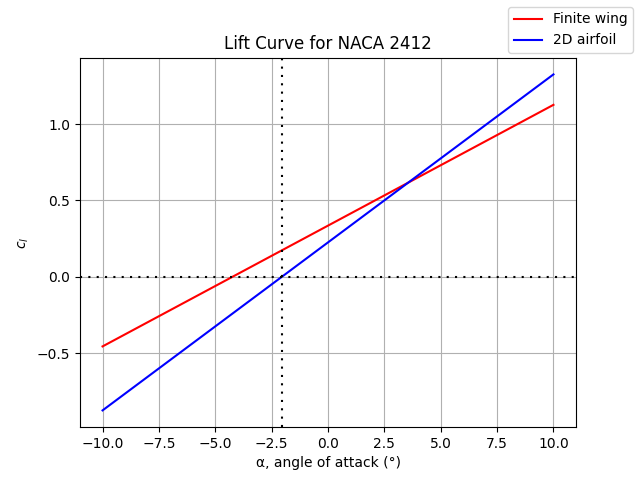
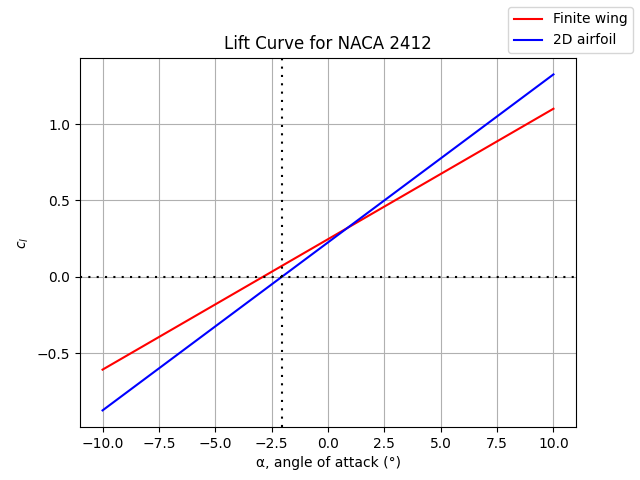
update

Changed region(s): [[0.1562, 0.2812, 0.7812, 0.75], [0.7812, 0.2188, 0.875, 0.2812], [0.1562, 0.75, 0.1875, 0.7812]]

diff --git a/final_project/Airfoil.py b/final_project/Airfoil.py
@@ -11,7 +11,7 @@ AIRFOIL GENERATION CODE, ADAPTED FROM Divahar Jayaraman (j.divahar@yahoo.com)
 
 
 class Airfoil:
-    def __init__(self, designation):
+    def __init__(self, designation, c, fluid):
         # ALL AIRFOIL CHARACTERISTICS ARE IMPLEMENTED HERE
 
         self.code = str(designation)
@@ -21,6 +21,12 @@ class Airfoil:
         self.m = float(self.code[0])/100
         self.p = float(self.code[1])/10
         self.t = float(self.code[2:])/100
+
+        self.MAC = c
+
+        self.V_inf = fluid.V_inf
+        self.rho = fluid.rho
+        self.mu = fluid.mu
 
         x = sp.symbols('x')
 
@@ -73,7 +79,7 @@ class Airfoil:
 
         self.Cl = np.pi*(np.add(2*A0, A[1]))
 
-        alpha_n = np.linspace(np.radians(-20), np.radians(20), 100)
+        alpha_n = np.linspace(np.radians(-10), np.radians(10), 100)
         self.lift_slope = linregress(alpha_n, self.Cl).slope
         self.zero_Cl = linregress(alpha_n, self.Cl).intercept
 
@@ -145,7 +151,7 @@ class Airfoil:
 
     def plot_CL(self, n_points):
         fig, ax = plt.subplots()
-        alpha_n = np.linspace(np.radians(-20), np.radians(20), n_points)
+        alpha_n = np.linspace(np.radians(-10), np.radians(10), n_points)
 
         ax.plot(np.degrees(alpha_n), self.Cl)
         ax.axvline(x=np.degrees(self.alpha_L0), color="black",
@@ -159,32 +165,32 @@ class Airfoil:
         ax.grid(visible=True)
         fig.savefig("NACA " + self.code + " lift curve, 2D")
 
-    def plot_CLCD(self, n_points):
-        fig, ax = plt.subplots()
-        alpha_n = np.linspace(np.radians(-20), np.radians(20), n_points)
+    def lift(self, n_points):
+        alpha_n = np.linspace(-10, 10, n_points)
+        i = np.where(alpha_n > 4.1)
+        i = i[0][0]
 
-        ax.plot(np.degrees(alpha_n), self.Cl)
-        ax.axvline(x=np.degrees(self.alpha_L0), color="black",
-                   linestyle=(0, (1, 3)))
-        ax.axhline(y=0, color="black", linestyle=(0, (1, 3)))
+        y = sp.symbols('y')
+        s = (1.63 - 1.13)/(2.2 - 11/2)
+        b = 1.63 - s * 2.2
+        c_y = sp.Piecewise((1.63, y <= 2.2),
+                           (s*y + b, (y > 2.2) & (y <= 11/2)))
 
-        ax.set_xlabel("α, angle of attack (°)")
-        ax.set_ylabel("$c_l$")
+        Cl = self.Cl[i]
+        print(i)
+        lift_per_span = 1/2 * Cl * self.V_inf**2 * self.MAC
+        lift_over_wing = 1/2 * Cl * self.V_inf**2 *\
+            sp.integrate(c_y, (y, 0, 11/2))
 
-        ax.set_title("Lift Curve for NACA " + self.code)
-        ax.grid(visible=True)
-        fig.savefig("NACA " + self.code + " lift curve, 2D")
+        return Cl, lift_per_span, lift_over_wing
 
 
 def test(designation):
-    airfoil = Airfoil(designation)
-    airfoil.plot_airfoil(100)
-    airfoil.plot_CL(100)
-    print(airfoil.lift_slope)
-    print(np.degrees(airfoil.alpha_L0))
     air = Fluid(55, 1.3, 1.8*10**-5)
- 
-
+    airfoil = Airfoil(designation, 1.375, air)
+    airfoil.plot_CL(100)
+    print(airfoil.lift(100))
+    
 
 def main():
     test("2412")

diff --git a/final_project/Wing.py b/final_project/Wing.py
@@ -20,7 +20,7 @@ class Wing:
         self.mac = (self.root_chord + self.tip_chord) / 2
         self.taper_start = geometry.taper_start
 
-        self.airfoil = Airfoil(designation)
+        self.airfoil = Airfoil(designation, self.mac, fluid)
         self.lift_slope = self.airfoil.lift_slope
         self.AoA_0 = self.airfoil.alpha_L0
         self.angle_of_inc = np.radians(15)
@@ -80,7 +80,7 @@ class Wing:
 
     def plot_CL(self, n_points):
         fig, ax = plt.subplots()
-        alpha_i = np.linspace(np.radians(-20), np.radians(20), n_points)
+        alpha_i = np.linspace(np.radians(-10), np.radians(10), n_points)
 
         CL = np.zeros(n_points)
 
@@ -104,7 +104,7 @@ class Wing:
 
     def plot_CLCD(self, n_points):
         fig, ax = plt.subplots()
-        alpha_i = np.linspace(np.radians(-20), np.radians(20), n_points)
+        alpha_i = np.linspace(np.radians(-10), np.radians(10), n_points)
 
         CL = np.zeros(n_points)
         CD = np.zeros(n_points)
@@ -124,7 +124,7 @@ class Wing:
 
     def plot_CLCD_alpha(self, n_points):
         fig, ax = plt.subplots()
-        alpha_i = np.linspace(np.radians(-20), np.radians(20), n_points)
+        alpha_i = np.linspace(np.radians(-10), np.radians(10), n_points)
 
         ratio = np.zeros(n_points)
 
@@ -158,7 +158,7 @@ class Wing:
         for i in range(n):
             c_0 = float(c_y.subs(y, y_values[i]))
             c_1 = float(c_y.subs(y, y_values[i+1]))
-            Re_local = np.average((c_0, c_1)) * self.V_inf**2 *\
+            Re_local = np.average((c_0, c_1)) * self.V_inf *\
                 self.rho / self.mu
             Cf = 1.328 / np.sqrt(Re_local)
             area = self.b / self.N / 4 * (c_0 + c_1)
@@ -166,16 +166,29 @@ class Wing:
 
         return drag
 
+    def lift_and_drag(self, AoA):
+        CL = self.vortex_distribution(AoA)
+        CL_max = 1.65
+        W = 1111*9.8
+        CD = CL**2/(np.pi*self.AR)
+
+        lift = 1/2 * CL * self.rho * self.V_inf**2 * self.S
+        drag_i = 1/2 * CD * self.rho * self.V_inf**2 * self.S
+        drag_f = self.friction_drag()
+
+        V_stall = np.sqrt(2*W/(self.rho*self.S*CL))
+
+        return CL, CD, lift, drag_i, drag_f, V_stall
+
 
 def test(designation):
     cessna = Airplane(11, 16.2, 0.5, np.radians(1.5),
-                      np.radians(-1.5), 1.63, 1.13, 2.2)
+                      np.radians(-1.5), 1.63, 1.12, 2.2)
     air = Fluid(55, 1.3, 1.8*10**-5)
     wing = Wing(cessna, designation, air, 10)
 
-    # wing.plot_CL(100)
-    # wing.plot_CLCD(100)
-    print(wing.friction_drag())
+    print(wing.lift_and_drag(np.radians(4.2)))
+    wing.plot_CL(100)
 
 
 def main():
